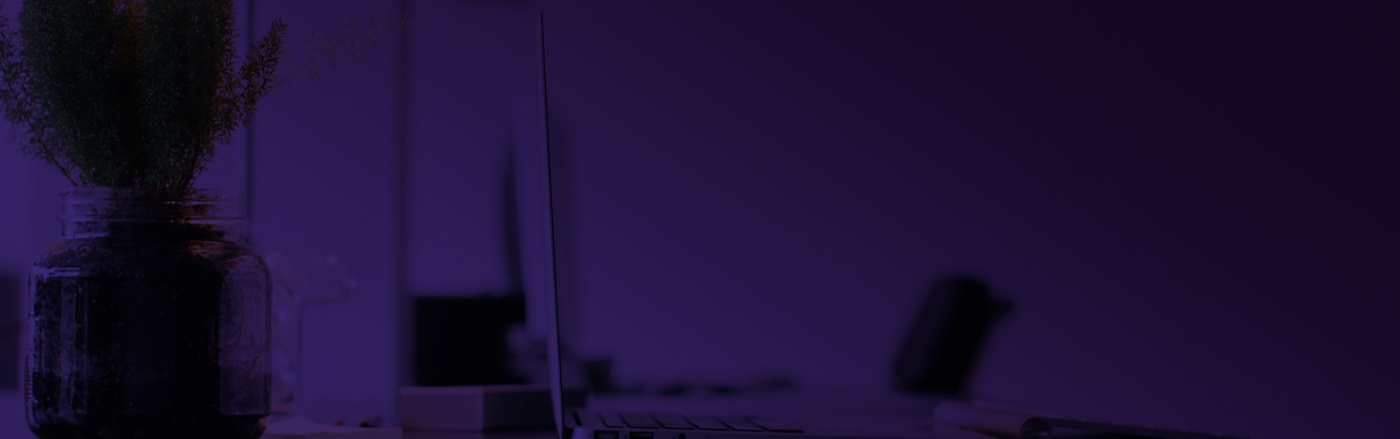
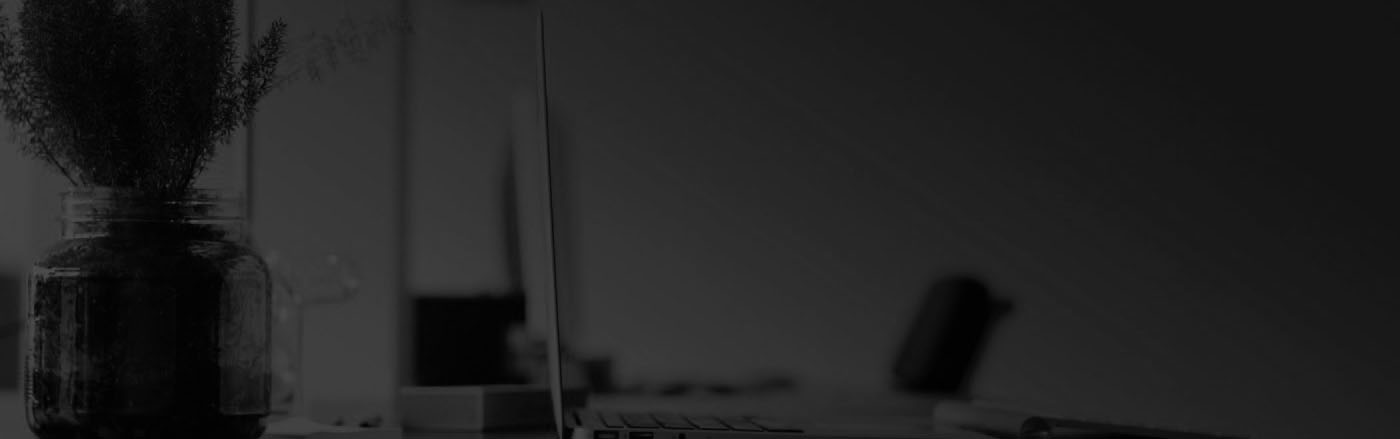
dark theme

diff --git a/themes/events/assets/css/style.css b/themes/events/assets/css/style.css
@@ -1023,10 +1023,10 @@ FOOTER SECTION
 -------------------------------------------------------------------*/
 .footer-widget-wrapper {
     background-repeat: repeat-x;
-    background-image: -webkit-linear-gradient(45deg, #251E4B 30%, #190b2e 75%);
-    background-image: -o-linear-gradient(45deg, #251E4B 30%, #190b2e 75%);
-    background-image: linear-gradient(45deg, #251E4B 30%, #190b2e 75%);
-    filter: progid:DXImageTransform.Microsoft.gradient(GradientType=1, startColorstr='#251E4B', endColorstr='#190b2e');
+    background-image: -webkit-linear-gradient(45deg, #161616 30%, #000000 75%);
+    background-image: -o-linear-gradient(45deg, #161616 30%, #000000 75%);
+    background-image: linear-gradient(45deg, #161616 30%, #000000 75%);
+    filter: progid:DXImageTransform.Microsoft.gradient(GradientType=1, startColorstr='#161616', endColorstr='#000000');
     color: #ffffff;
     padding: 17px 0 10px;
 }
@@ -1830,7 +1830,7 @@ BACK TO TOP
 }
 
 .navbar.navbar-bottom{
-	background: #251E4B;
+	background: #161616;
 }
 
 .navbar-default.navbar-bottom .navbar-nav>li>a{
